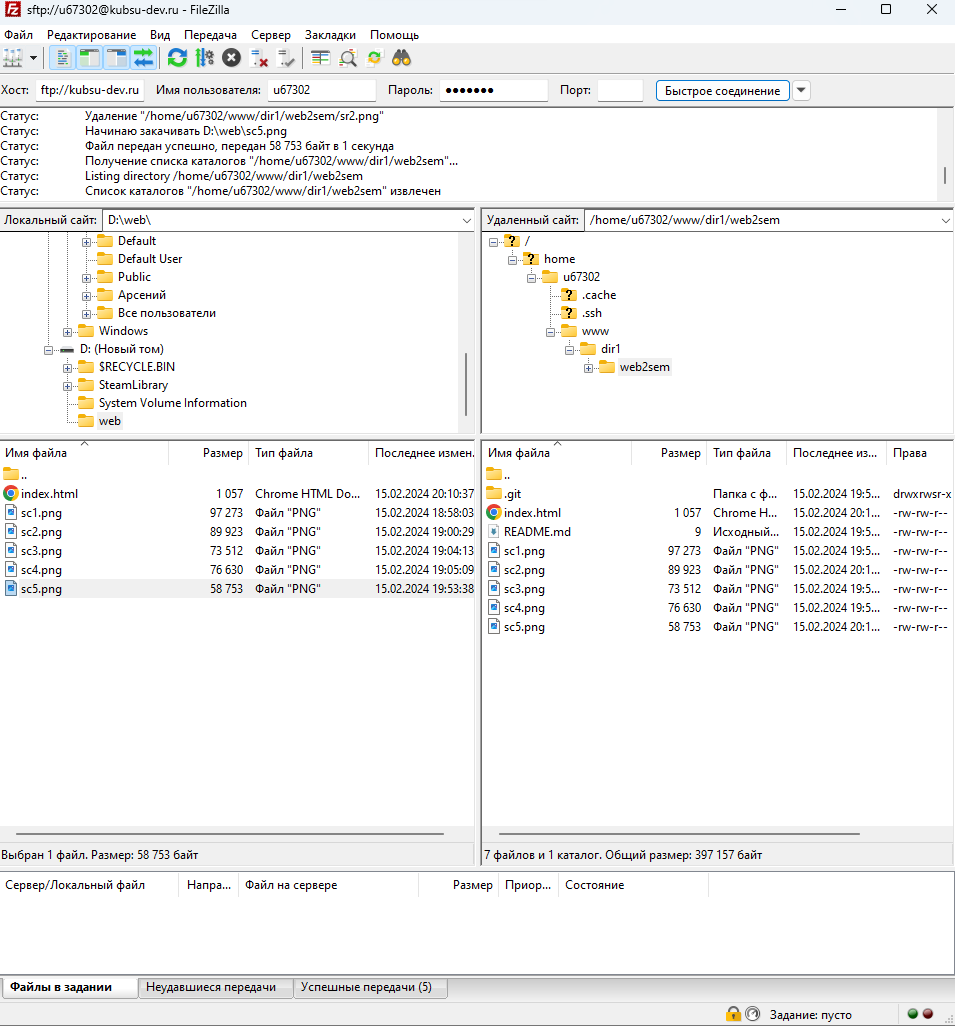
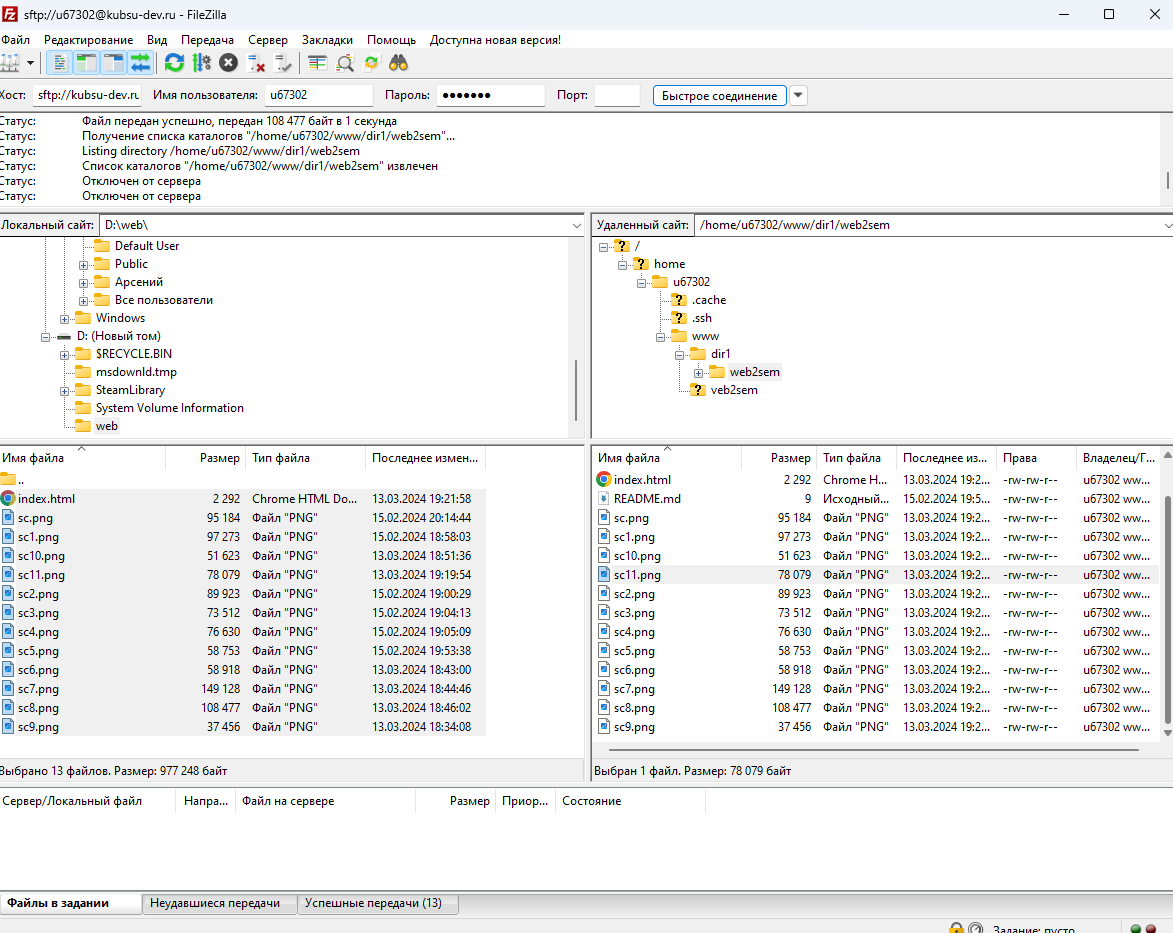
Add files via upload

Changed region(s): [[0.0, 0.0, 1.0, 0.8703], [0.0, 0.9325, 1.0, 1.0], [0.9717, 0.0, 1.0, 0.0311]]

diff --git a/index.html b/index.html
@@ -17,7 +17,7 @@
         <li><a href="#"><img src="sc8.png" ></a>и сохранили</li>
         <li><a href="#"><img src="sc10.png" ></a>создали папку для бдущего директория с помощью mkdir и склонировали гит репоциторий по ssh ссылке</li>
         <li><a href="#"><img src="sc11.png" ></a>git pull подтянул все изменения с гитхаба</li>
-        <li><a href="#"><img src="sc6.png" ></a>С помощью программы FileZilla или любого другого клиента SFTP соединиться с учебным сервером с вашим логином и паролем по протоколу SFTP и скопировать налокальный компьютер файлы задания из каталога www.</li>
+        <li><a href="#"><img src="sc.png" ></a>С помощью программы FileZilla или любого другого клиента SFTP соединиться с учебным сервером с вашим логином и паролем по протоколу SFTP и скопировать налокальный компьютер файлы задания из каталога www.</li>
 
     </ul>
 </main>
